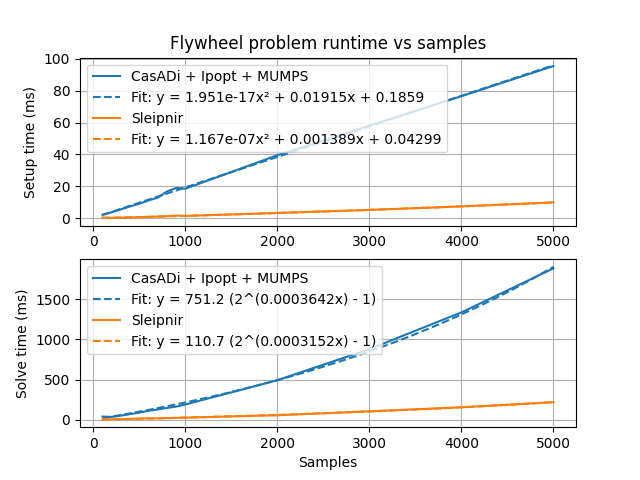
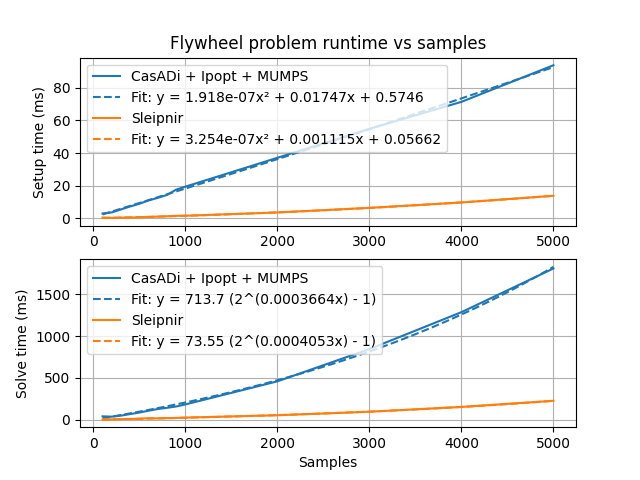
Run benchmarks with CasADi 3.6.5 (#456)

diff --git a/README.md b/README.md
@@ -81,7 +81,7 @@ Sleipnir's internals are intended to be readable by those who aren't domain expe
 
 Generated by [tools/generate-scalability-results.sh](https://github.com/SleipnirGroup/Sleipnir/tree/main/tools/generate-scalability-results.sh) from [benchmarks/scalability](https://github.com/SleipnirGroup/Sleipnir/tree/main/benchmarks/scalability) source on a AMD Ryzen 7 7840U with 64 GB RAM. The following thirdparty software was used in the benchmarks:
 
-* CasADi 3.6.4 (autodiff and NLP solver frontend)
+* CasADi 3.6.5 (autodiff and NLP solver frontend)
 * Ipopt 3.14.14 (NLP solver backend)
 * MUMPS 5.6.2 (linear solver)
 
